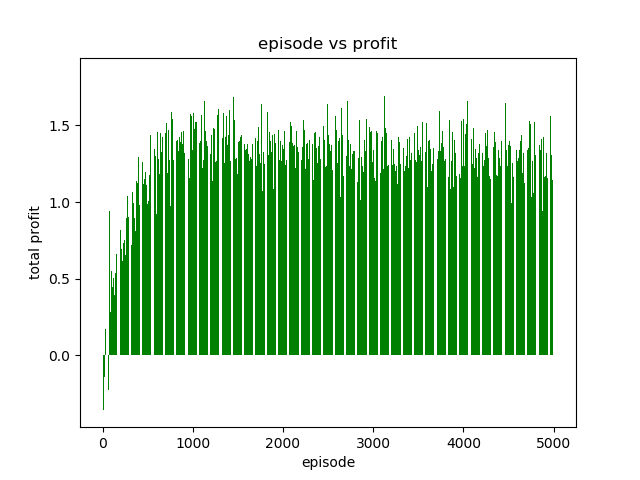
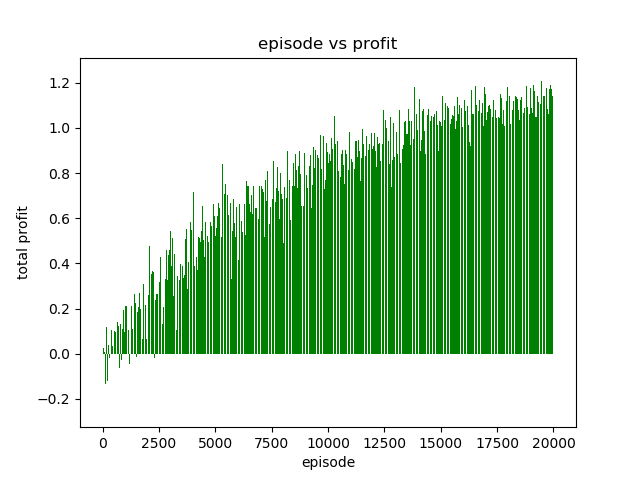
learnt 1y sp500 with 20000 iterations, commit before refactor

diff --git a/rl_dqn.py b/rl_dqn.py
@@ -12,17 +12,17 @@ np.set_printoptions(precision=4)
 np.set_printoptions(suppress=True)  # prevent numpy exponential #notation on print, default False
 
 # change these params
-stock_name = 'test_sinus'  # ^GSPC_2001_2010  ^GSPC_1970_2018  ^GSPC_2011
-num_features = 8  # (int) > 0
+stock_name = '^GSPC_2011'  # ^GSPC_2001_2010  ^GSPC_1970_2018  ^GSPC_2011
+num_features = 20  # (int) > 0
 num_neurons = 64  # (int) > 0
-episodes = 5000  # (int) > 0 ,minimum 200 episodes for results. episode represent trade and learn on all data.
-batch_size = 8  # (int) > 0 size of a batched sampled from replay buffer for training
-random_action_decay = 0.99999  # (float) 0-1
-future_reward_importance = 0.95  # (float) 0-1 aka decay or discount rate, determines the importance of future rewards
+episodes = 20000  # (int) > 0 ,minimum 200 episodes for results. episode represent trade and learn on all data.
+batch_size = 20  # (int) > 0 size of a batched sampled from replay buffer for training
+random_action_decay = 0.9999995  # (float) 0-1
+future_reward_importance = 0.05  # (float) 0-1 aka decay or discount rate, determines the importance of future rewards
 # If=0 then agent will only learn to consider current rewards. if=1 it will make it strive for a long-term high reward.
 random_action_min = 0.05  # (float) 0-1
 use_existing_model = False  # (bool)      do not touch this
-
+#model_name = 'model_ep10000'  # for continuing learning, name of model is -10K
 
 data = getStockDataVec(stock_name)  # https://www.kaggle.com/camnugent/sandp500
 l = len(data) - 1

diff --git a/dqn.py b/dqn.py
@@ -97,7 +97,7 @@ class Dqn:
             self.open_orders.append(close_price)
             total_buys += 1
             reward = 0
-            print(f'row #{t} buy  @ ' + formatPrice(close_price))
+            #print(f'row #{t} buy  @ ' + formatPrice(close_price))
 
         elif action == 2 and len(self.open_orders) > 0:  # sell (or exiting trade)
 
@@ -108,7 +108,7 @@ class Dqn:
             total_profits += log_return
             reward = log_return  # get_reward(return_rate, total_profits)
             total_sells += 1
-            print(f'row #{t} sell @ ' + formatPrice(close_price) + " | return_rate: " + formatPrice(reward))
+            #print(f'row #{t} sell @ ' + formatPrice(close_price) + " | return_rate: " + formatPrice(reward))
         else:
             reward = 0
             total_notvalid += 1

diff --git a/backtest.py b/backtest.py
@@ -41,8 +41,8 @@ def bt(num_features, use_existing_model, model_name):
             print("-----------------------------------------")
 
 
-stock_name = 'test_sinus'  # GSPC_2011 GSPC_2019 GSPC_1970_2019 GSPC_1970_2018
-model_name = 'model_ep5000'  # model_ep0, model_ep10, model_ep20, model_ep30
+stock_name = '^GSPC_2011'  # GSPC_2011 GSPC_2019 GSPC_1970_2019 GSPC_1970_2018 GSPC_2001_2010
+model_name = 'model_ep20000'  # model_ep0, model_ep10, model_ep20, model_ep30
 model_inst = load_model("files/output/" + model_name)
 num_features = model_inst.layers[0].input.shape.as_list()[1]
 use_existing_model = True
